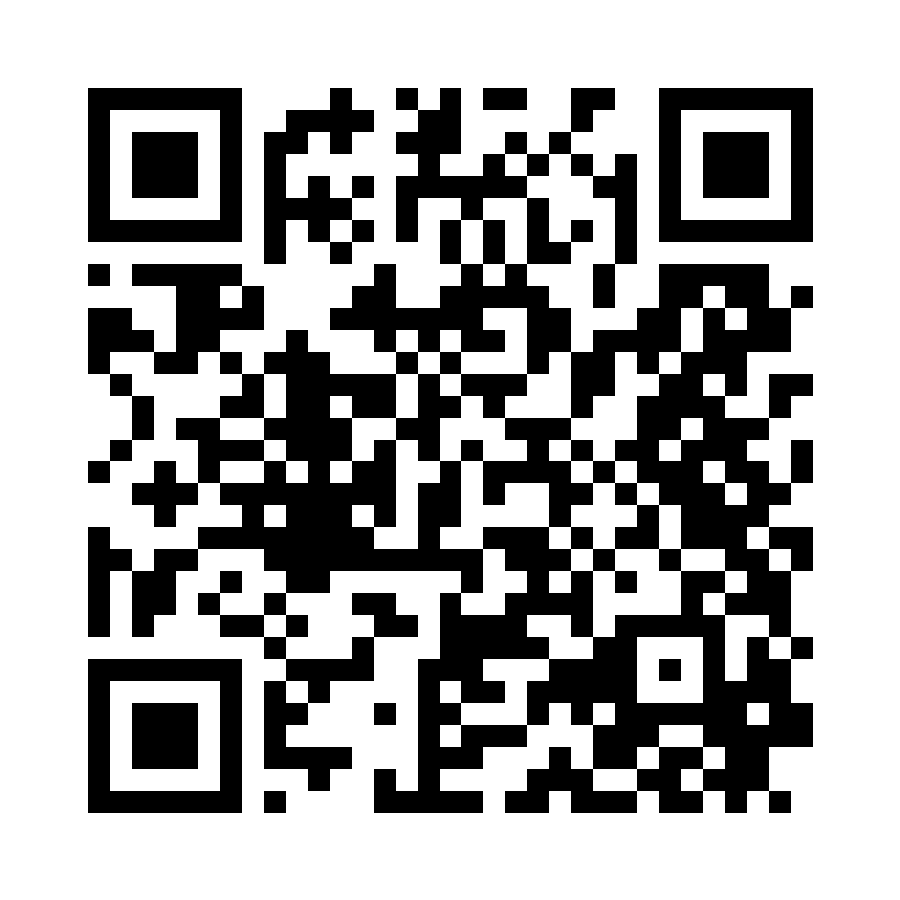
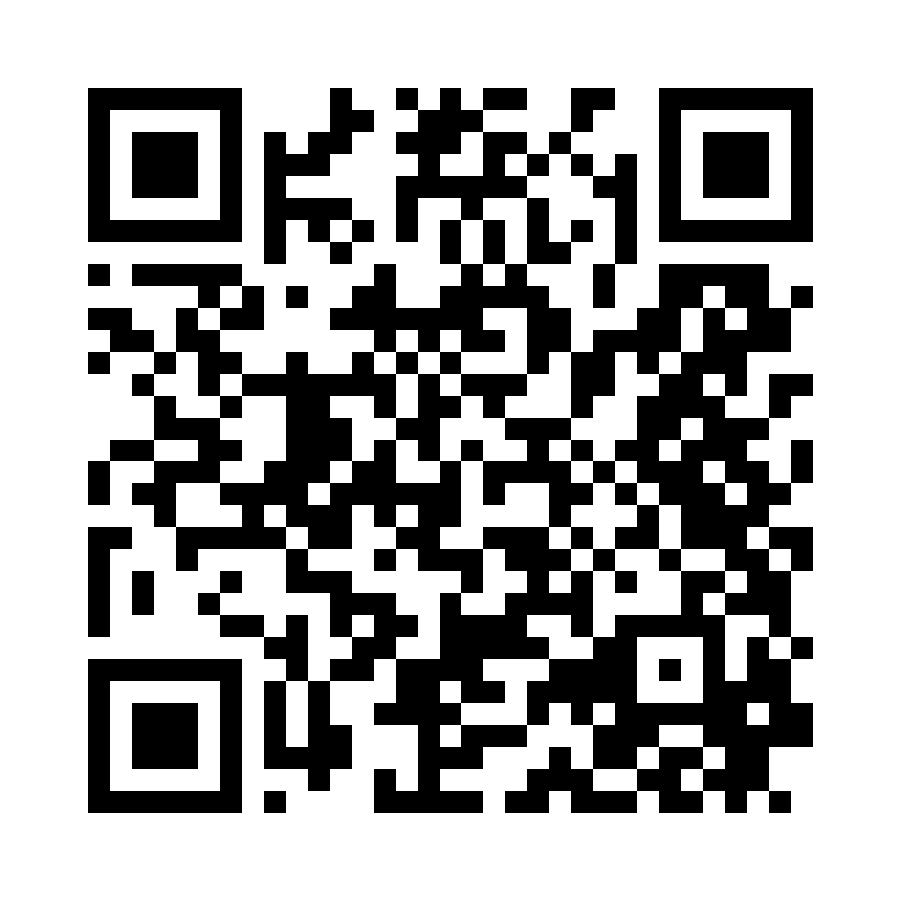
Accept configured Home LAN without changing father installers

diff --git a/docs/index.html b/docs/index.html
@@ -1,9 +1,9 @@
 <!doctype html>
-<html lang="ru"><head><meta charset="utf-8"><meta name="viewport" content="width=device-width, initial-scale=1"><meta name="robots" content="noindex,nofollow,noarchive"><meta name="referrer" content="no-referrer"><meta http-equiv="Content-Security-Policy" content="default-src 'none'; script-src 'self'; style-src 'self'; connect-src 'self'; img-src 'self'; base-uri 'none'; form-action 'none'; object-src 'none'"><title>Тихий фонарь</title><link rel="stylesheet" href="style.css?v=5"><script type="module" src="app.js?v=5"></script></head>
+<html lang="ru"><head><meta charset="utf-8"><meta name="viewport" content="width=device-width, initial-scale=1"><meta name="robots" content="noindex,nofollow,noarchive"><meta name="referrer" content="no-referrer"><meta http-equiv="Content-Security-Policy" content="default-src 'none'; script-src 'self'; style-src 'self'; connect-src 'self'; img-src 'self'; base-uri 'none'; form-action 'none'; object-src 'none'"><title>Тихий фонарь</title><link rel="stylesheet" href="style.css?v=6"><script type="module" src="app.js?v=6"></script></head>
 <body><main>
 <form id="unlock"><label for="password">Пароль страницы</label><input id="password" type="password" inputmode="numeric" pattern="[0-9]*" autocomplete="off" required><button id="enter">Открыть</button></form>
 <section id="steps" hidden><fieldset id="profile"><legend>Выберите локацию</legend><div class="choices"><label><input type="radio" name="profile" value="city">Город</label><label><input type="radio" name="profile" value="dacha">Дача</label><label class="home-choice"><input type="radio" name="profile" value="home">Домашний роутер</label></div></fieldset>
-<button id="copy" disabled>Скопировать код и открыть роутер</button>
+<button id="copy" disabled>Скопировать код и открыть роутер</button><p id="addressHelp" class="muted" hidden>Если адрес другой, откройте его вручную после копирования.</p>
 <ol><li>Войдите в роутер.<details class="example"><summary>Показать пример</summary><img src="guide-login.png" alt="Вход в LuCI: поля имени пользователя и пароля и кнопка входа" loading="lazy"></details></li><li>Система → Автозагрузка → Локальный запуск (Local Startup): вставьте код <strong>перед последней строкой <code>exit 0</code>. Старый текст не удаляйте.</strong><details class="example"><summary>Показать пример</summary><img src="guide-startup.png" alt="Локальный запуск LuCI: место для вставки кода перед строкой exit 0 и кнопка сохранения" loading="lazy"></details></li><li>Нажмите «Сохранить» / «Сохранить и применить».</li><li>Система → Перезагрузка → Выполнить перезагрузку. Подождите 2 минуты.<details class="example"><summary>Показать пример</summary><img src="guide-reboot.png" alt="Перезагрузка LuCI: кнопка «Выполнить перезагрузку»" loading="lazy"></details></li></ol>
 <div id="fallback" hidden><div id="manualCopy"><label for="manual">Текст для копирования</label><textarea id="manual" readonly rows="7" spellcheck="false"></textarea></div><a id="routerLink" class="button" target="_blank" rel="noopener noreferrer" href="http://192.168.80.1/cgi-bin/luci/admin/system/startup">Открыть роутер</a></div>
 <details><summary>Если не получилось</summary><p>В некоторых версиях пункты называются «Автозапуск» и «Пользовательские скрипты загрузки».</p><p>Проверьте Wi-Fi и интернет. Если страница роутера не открывается или выглядит иначе — позвоните Петру. Не сбрасывайте настройки.</p></details></section><p id="message" role="status" aria-live="polite"></p></main></body></html>

diff --git a/docs/app.js b/docs/app.js
@@ -1,18 +1,18 @@
-import {unlock,copyAndOpen,routerUrlForProfile} from './crypto.js?v=5';
+import {unlock,copyAndOpen,routerUrlForProfile} from './crypto.js?v=6';
 const $ = id => document.getElementById(id);
 let profiles;
 const selectedProfile=()=>document.querySelector('input[name="profile"]:checked')?.value;
 $('unlock').addEventListener('submit', async event => {
   event.preventDefault(); $('enter').disabled=true; $('message').textContent='Открываем…';
   try {
-    const response=await fetch('./payload.json?v=5',{cache:'no-store'});
+    const response=await fetch('./payload.json?v=6',{cache:'no-store'});
     if(!response.ok) throw Error();
     profiles=await unlock($('password').value,await response.json());
     $('password').value=''; $('unlock').hidden=true; $('steps').hidden=false; $('message').textContent='';
   } catch { $('message').textContent='Не получилось открыть. Проверьте пароль и интернет.'; }
   finally { $('enter').disabled=false; }
 });
-$('profile').addEventListener('change',()=>{ $('copy').disabled=!selectedProfile(); $('fallback').hidden=true; if(selectedProfile()) $('routerLink').href=routerUrlForProfile(selectedProfile()); });
+$('profile').addEventListener('change',()=>{ $('copy').disabled=!selectedProfile(); $('fallback').hidden=true; $('addressHelp').hidden=selectedProfile()!=='home'; if(selectedProfile()) $('routerLink').href=routerUrlForProfile(selectedProfile()); });
 $('copy').addEventListener('click', async()=>{
   const text=profiles[selectedProfile()];
   if(!text) return;

diff --git a/docs/crypto.js b/docs/crypto.js
@@ -11,7 +11,7 @@ export async function unlock(password, box) {
 export const routerUrl='http://192.168.80.1/cgi-bin/luci/admin/system/startup';
 export function routerUrlForProfile(profile) {
   if(!['city','dacha','home'].includes(profile)) throw Error('Unknown profile');
-  return profile==='home' ? 'http://192.168.1.1/cgi-bin/luci/admin/system/startup' : routerUrl;
+  return routerUrl;
 }
 export async function copyAndOpen(text, clipboard, openWindow, targetUrl=routerUrl) {
   if(![routerUrl,routerUrlForProfile('home')].includes(targetUrl)) throw Error('Invalid router URL');

diff --git a/scripts/test-installer.py b/scripts/test-installer.py
@@ -12,7 +12,11 @@ import tempfile
 source = Path('installer.sh').read_text()
 profile = sys.argv[1] if len(sys.argv) > 1 else 'city'
 assert profile in ['city', 'dacha', 'home']
-lan = '192.168.1.1' if profile == 'home' else '192.168.80.1'
+lan = sys.argv[2] if len(sys.argv)>2 else '192.168.80.1'
+if profile == 'home':
+    fixed = "uci -q get network.lan.ipaddr | grep -qx '@@LAN@@' || fail 'Unexpected LAN address; ask Petr'"
+    assert fixed in source
+    source = source.replace(fixed, Path('home-lan-check.sh').read_text().rstrip())
 port = {'city': '18581', 'dacha': '18582', 'home': '18584'}[profile]
 other = 'dacha' if profile != 'dacha' else 'city'
 assert 'base64' not in source
@@ -63,6 +67,15 @@ with tempfile.TemporaryDirectory(prefix='ql-ash-') as directory:
         template = template.replace(old, new)
     put('install.sh', template)
     env = dict(os.environ, PATH=str(bindir)+':/usr/bin:/bin')
+    if profile == 'home':
+        check = 'fail() { exit 1; }\n' + Path('home-lan-check.sh').read_text()
+        for candidate in ['192.168.80.1', '192.168.1.1', '10.42.7.1', '172.20.9.254/24']:
+            put('bin/uci', '#!/bin/sh\necho '+candidate+'\n')
+            assert subprocess.run(['busybox','ash','-c',check],env=env,capture_output=True).returncode == 0
+        for candidate in ['', 'not-an-ip', '999.1.1.1', '0.0.0.0', '127.0.0.1', '224.0.0.1', '10.2.3.4/99']:
+            put('bin/uci', '#!/bin/sh\necho '+candidate+'\n')
+            assert subprocess.run(['busybox','ash','-c',check],env=env,capture_output=True).returncode != 0
+        put('bin/uci', '#!/bin/sh\necho '+lan+'\n')
     def run():
         return subprocess.run(['busybox', 'ash', str(root/'install.sh')], env=env, capture_output=True)
     subprocess.run(['busybox', 'ash', '-n', str(root/'install.sh')], check=True)

diff --git a/README.md b/README.md
@@ -1,10 +1,12 @@
 # quiet-lantern
 
-Small Russian mobile helper published at https://petkuz.github.io/quiet-lantern/index.html?v=5 using free GitHub Pages. No external browser dependencies, analytics, or router password collection. HTML, scripts, styles, and payload requests use release version 5 to avoid mixing previously cached files; increment the version together for future releases. The previous release-4 URL continues to support both father profiles.
+Small Russian mobile helper published at https://petkuz.github.io/quiet-lantern/index.html?v=6 using free GitHub Pages. No external browser dependencies, analytics, or router password collection. HTML, scripts, styles, and payload requests use release version 6 to avoid mixing previously cached files; increment the version together for future releases. The previous release-4 URL continues to support both father profiles.
 
-Locations: Город and Дача use LuCI at `192.168.80.1`; Домашний роутер uses `192.168.1.1`. Each has its own encrypted installer and dedicated relay identity. Home uses `ql-home`, loopback port 18584, and server-side ClientAliveInterval 30 / ClientAliveCountMax 3. Home provisioning changes neither father identity nor its settings. The existing home-router-remote management path is separate and remains unchanged. Adding a page choice never installs anything on a router.
+Locations: the button opens LuCI at `192.168.80.1` for all three choices. For Домашний роутер, a short hint explains that a different admin address can be opened manually after copying. Its installer detects a valid configured LAN IPv4 address instead of requiring a particular subnet; the father profiles retain their exact original address check. Each has its own encrypted installer and dedicated relay identity. Home uses `ql-home`, loopback port 18584, and server-side ClientAliveInterval 30 / ClientAliveCountMax 3. The existing home-router-remote management path is separate and remains unchanged. Adding a page choice never installs anything on a router.
 
 Release 5 preserves the city/dacha installer bytes and key identities against an outside-Git release-4 baseline; the installer version stays 4. The expected LAN is substituted per profile. A build/audit fails if the protected father installer bytes differ. `scripts/provision-home.sh` provisions only the new public home identity, with SSH configuration backups and protected-file hash checks. Private home key material is generated and retained locally; only its public key goes to the VPS.
+
+Release 6 substitutes the Home-only `scripts/home-lan-check.sh` fragment, preserving city/dacha bytes and all relay credentials. No live router, SSH configuration or VPN configuration is changed by this release's deployment.
 
 `docs/` is the complete deployable artifact. `payload.json` contains authenticated ciphertext, never plaintext bootstrap credentials. The QR contains only the canonical HTTPS URL. Visiting or unlocking does not register a device or install anything.
 
